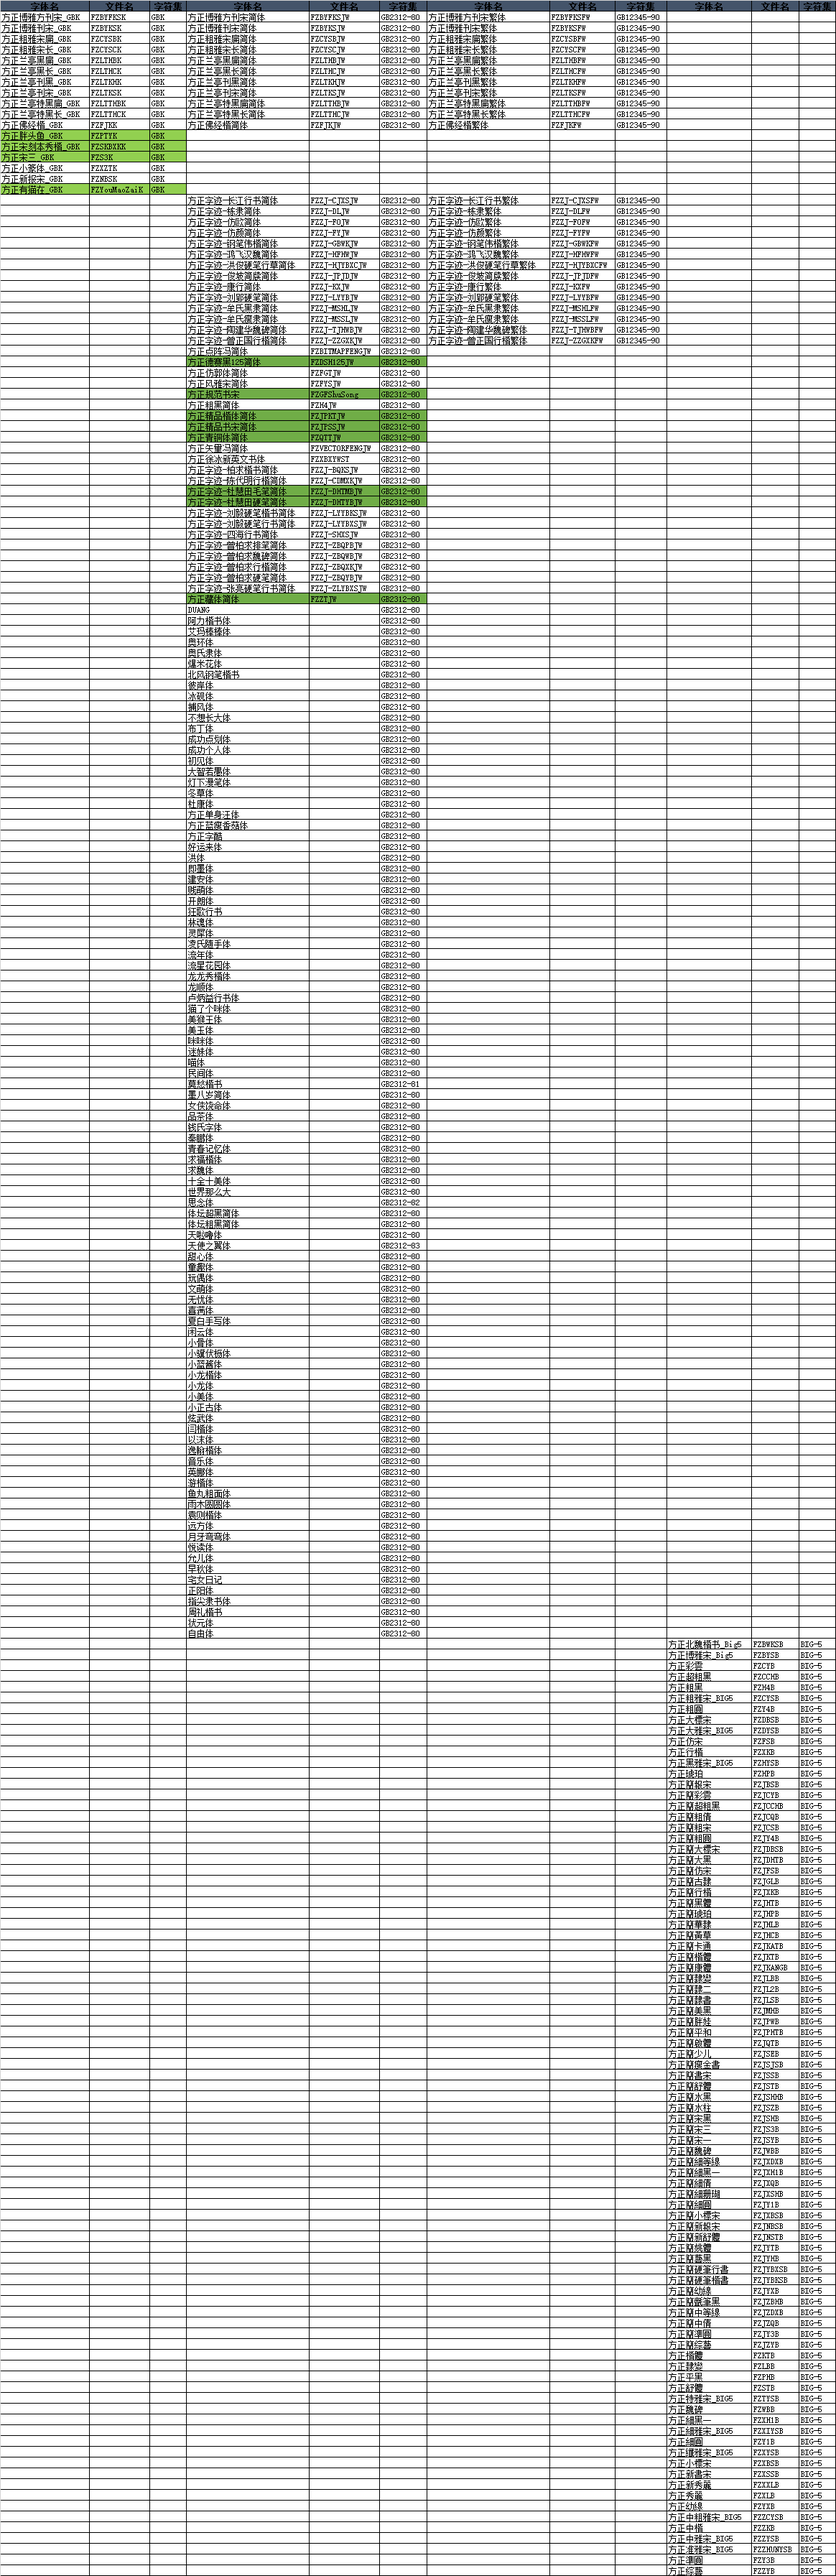
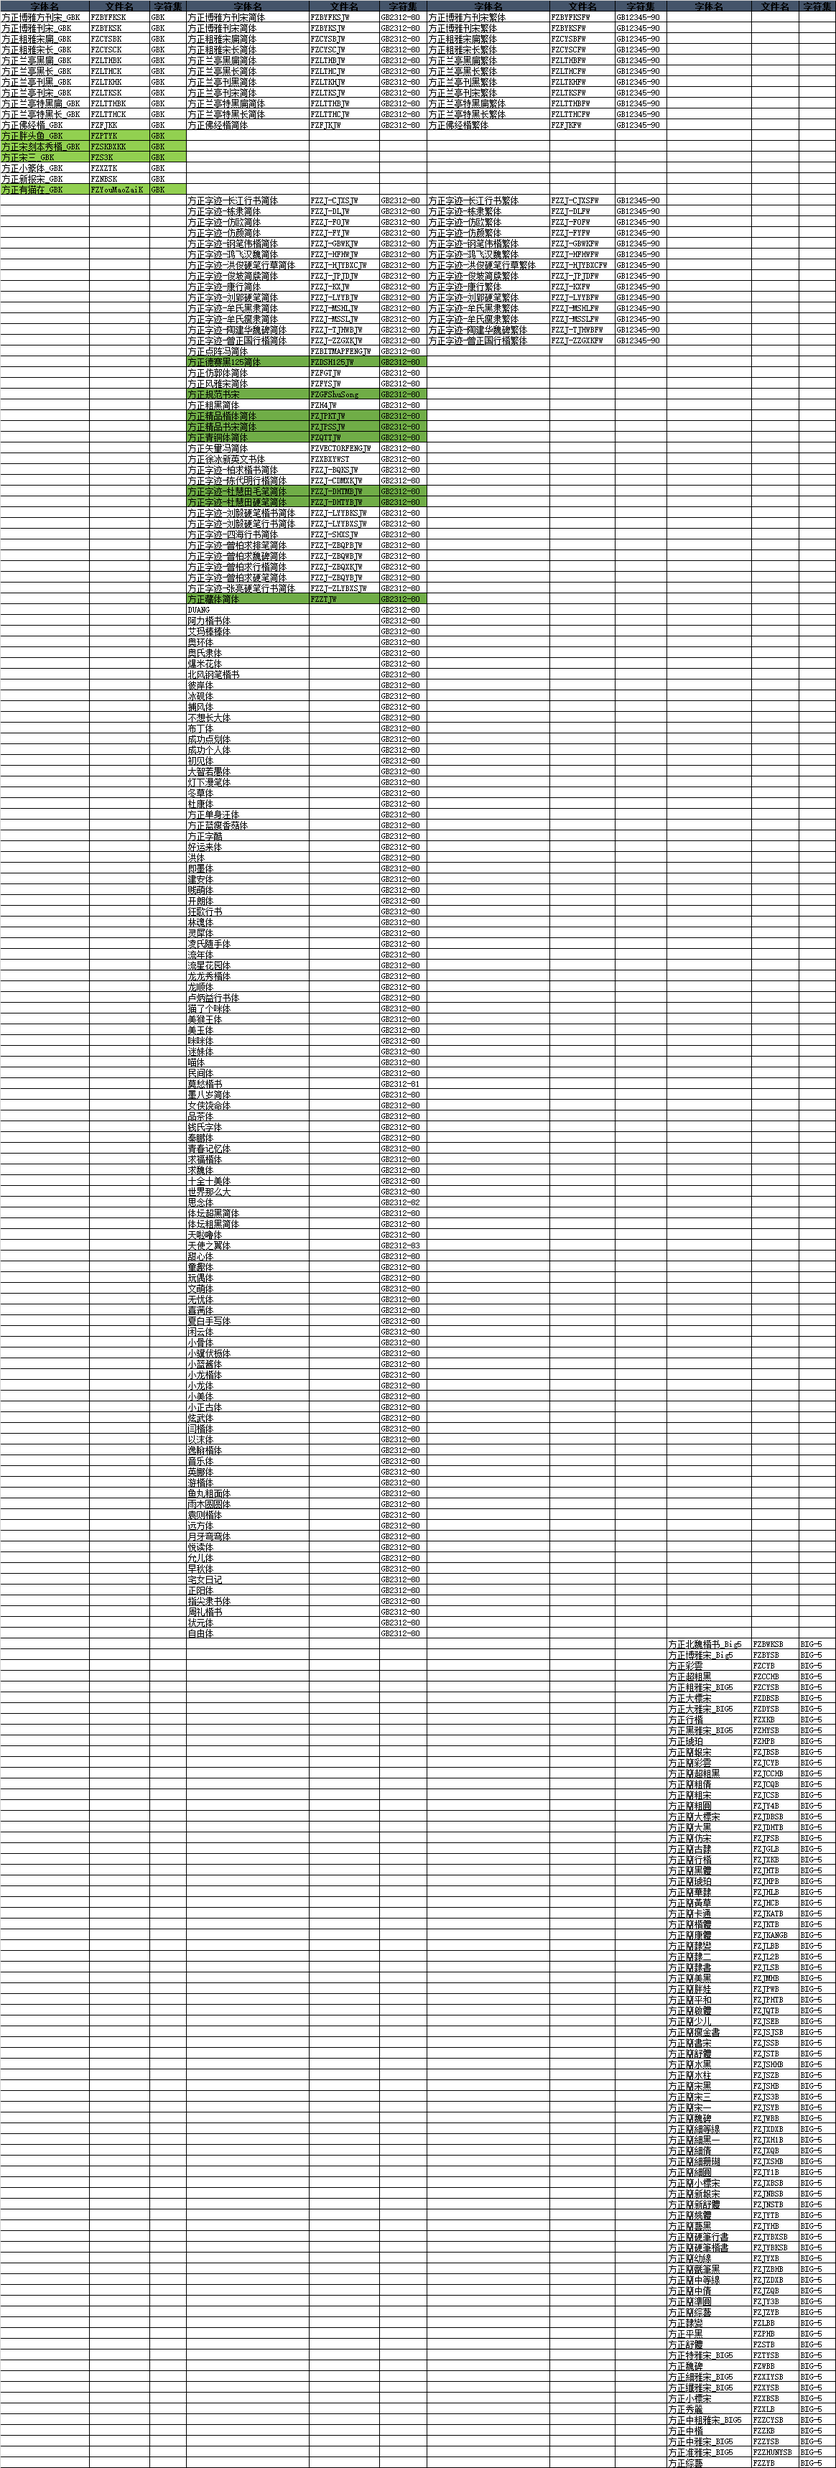
字体上架:方正达利体简体/方正达利体简体Bold/方正达利体简体DemiBold/方正达利体简体ExtraBold/方正达利体简体ExtraLight/方正达利体简体Heavy/方正达利体简体Light/方正达利体简体Medium/方正帝后体简体/方正帝后体简体Bold/方正帝后体简体DemiBold/方正帝后体简体ExtraBold/方正帝后体简体ExtraLight/方正帝后体简体Heavy/方正帝后体简体Light/方正帝后体简体Medium/方正非凡体简体/方正非凡体简体Bold/方正非凡体简体DemiBold/方正非凡体简体ExtraBold/方正非凡体简体Light/方正非凡体简体

Changed region(s): [[0.0, 0.0, 1.0, 1.0]]

diff --git a/README.md b/README.md
@@ -12,11 +12,24 @@
 
 方正字体样张:[http://shop.foundertype.com/index.php/Index/downSample.html](http://shop.foundertype.com/index.php/Index/downSample.html)
 
-目前官方商城在售字体568种：
+目前官方商城在售字体616种：
+
+| 字符集     | 字体数     |
+|------------|------------|
+| GB2312-80  | 281+38      |
+| GB12345-90 | 163        |
+| GBK        | 112        |
+| BIG-5      | 21         |
+|GB18030-2000| 1          |
+|GB18030-2005| 0          |
 
 | 字体名                      | 文件名             | 字符集     |
 |-----------------------------|--------------------|------------|
+| 方正粗黑                    | FZH4B              | BIG-5      |
+| 方正粗圓                    | FZY4B              | BIG-5      |
+| 方正仿宋                    | FZFSB              | BIG-5      |
 | 方正黑體                    | FZHTB              | BIG-5      |
+| 方正楷體                    | FZKTB              | BIG-5      |
 | 方正蘭亭超細黑_BIG5         | FZLTCXHB           | BIG-5      |
 | 方正蘭亭粗黑_BIG5           | FZLTCHB            | BIG-5      |
 | 方正蘭亭大黑_BIG5           | FZLTDHB            | BIG-5      |
@@ -27,6 +40,12 @@
 | 方正蘭亭中粗黑_BIG5         | FZLTZCHB           | BIG-5      |
 | 方正蘭亭中黑_BIG5           | FZLTZHB            | BIG-5      |
 | 方正蘭亭準黑_BIG5           | FZLTZHUNHB         | BIG-5      |
+| 方正細黑一                  | FZXH1B             | BIG-5      |
+| 方正細圓                    | FZY1B              | BIG-5      |
+| 方正新書宋                  | FZXSSB             | BIG-5      |
+| 方正新秀麗                  | FZXXLB             | BIG-5      |
+| 方正幼線                    | FZYXB              | BIG-5      |
+| 方正準圓                    | FZY3B              | BIG-5      |
 | 方正榜书行繁体              | FZBangSXFW         | GB12345-90 |
 | 方正榜书楷繁体              | FZBangSKFW         | GB12345-90 |
 | 方正报宋繁体                | FZXLFW             | GB12345-90 |
@@ -211,14 +230,36 @@
 | 方正粗雅宋简体              | FZCYSJW            | GB2312-80  |
 | 方正粗圆简体                | FZY4JW             | GB2312-80  |
 | 方正粗圆宋简体              | FZCuYSJ            | GB2312-80  |
+| 方正达利体简体              | FZDaLTJ            | GB2312-80  |
+| 方正达利体简体 Bold         | FZDaLTJ_Cu         | GB2312-80  |
+| 方正达利体简体 DemiBold     | FZDaLTJ_Zhong      | GB2312-80  |
+| 方正达利体简体 ExtraBold    | FZDaLTJ_Da         | GB2312-80  |
+| 方正达利体简体 ExtraLight   | FZDaLTJ_Xian       | GB2312-80  |
+| 方正达利体简体 Heavy        | FZDaLTJ_Te         | GB2312-80  |
+| 方正达利体简体 Light        | FZDaLTJ_Xi         | GB2312-80  |
+| 方正达利体简体 Medium       | FZDaLTJ_Zhun       | GB2312-80  |
 | 方正大标宋简体              | FZDBSJW            | GB2312-80  |
 | 方正大草简体                | FZDCJW             | GB2312-80  |
 | 方正大黑简体                | FZDHTJW            | GB2312-80  |
 | 方正大魏体简体              | FZDWTJW            | GB2312-80  |
 | 方正大雅宋简体              | FZDYSJW            | GB2312-80  |
 | 方正德赛黑515简体           | FZDSH515JW         | GB2312-80  |
+| 方正帝后体简体              | FZDiHTJ            | GB2312-80  |
+| 方正帝后体简体 Bold         | FZDiHTJ_Cu         | GB2312-80  |
+| 方正帝后体简体 DemiBold     | FZDiHTJ_Zhong      | GB2312-80  |
+| 方正帝后体简体 ExtraBold    | FZDiHTJ_Da         | GB2312-80  |
+| 方正帝后体简体 ExtraLight   | FZDiHTJ_Xian       | GB2312-80  |
+| 方正帝后体简体 Heavy        | FZDiHTJ_Te         | GB2312-80  |
+| 方正帝后体简体 Light        | FZDiHTJ_Xi         | GB2312-80  |
+| 方正帝后体简体 Medium       | FZDiHTJ_Zhun       | GB2312-80  |
 | 方正方魅简体                | FZFMJW             | GB2312-80  |
 | 方正仿宋简体                | FZFSJW             | GB2312-80  |
+| 方正非凡体简体              | FZFeiFTJ           | GB2312-80  |
+| 方正非凡体简体 Bold         | FZFeiFTJ_Cu        | GB2312-80  |
+| 方正非凡体简体 DemiBold     | FZFeiFTJ_Zhong     | GB2312-80  |
+| 方正非凡体简体 ExtraBold    | FZFeiFTJ_Da        | GB2312-80  |
+| 方正非凡体简体 Light        | FZFeiFTJ_Xi        | GB2312-80  |
+| 方正非凡体简体 Medium       | FZFeiFTJ_Zhun      | GB2312-80  |
 | 方正粉丝天下简体            | FZFenSTXJW         | GB2312-80  |
 | 方正工业黑简体              | FZGongYHJW         | GB2312-80  |
 | 方正古仿简体                | FZGuFangJW         | GB2312-80  |
@@ -298,6 +339,14 @@
 | 方正平和简体                | FZPHTJW            | GB2312-80  |
 | 方正启笛简体                | FZQDJW             | GB2312-80  |
 | 方正启体简体                | FZQTJW             | GB2312-80  |
+| 方正清纯体简体              | FZQingCTJ          | GB2312-80  |
+| 方正清纯体简体 Bold         | FZQingCTJ_Cu       | GB2312-80  |
+| 方正清纯体简体 DemiBold     | FZQingCTJ_Zhong    | GB2312-80  |
+| 方正清纯体简体 ExtraBold    | FZQingCTJ_Da       | GB2312-80  |
+| 方正清纯体简体 ExtraLight   | FZQingCTJ_Xian     | GB2312-80  |
+| 方正清纯体简体 Heavy        | FZQingCTJ_Te       | GB2312-80  |
+| 方正清纯体简体 Light        | FZQingCTJ_Xi       | GB2312-80  |
+| 方正清纯体简体 Medium       | FZQingCTJ_Zhun     | GB2312-80  |
 | 方正清刻本悦宋简体          | FZQKBYSJW          | GB2312-80  |
 | 方正趣宋简体                | FZQuSJW            | GB2312-80  |
 | 方正锐水云简体_大           | FZRuiSYJW_Da       | GB2312-80  |
@@ -384,6 +433,14 @@
 | 方正颜宋简体_准             | FZYanSJW_Zhun      | GB2312-80  |
 | 方正姚体简体                | FZYTJW             | GB2312-80  |
 | 方正艺黑简体                | FZYHJW             | GB2312-80  |
+| 方正盈利体简体              | FZYingLTJ          | GB2312-80  |
+| 方正盈利体简体 Bold         | FZYingLTJ_Cu       | GB2312-80  |
+| 方正盈利体简体 DemiBold     | FZYingLTJ_Zhong    | GB2312-80  |
+| 方正盈利体简体 ExtraBold    | FZYingLTJ_Da       | GB2312-80  |
+| 方正盈利体简体 ExtraLight   | FZYingLTJ_Xian     | GB2312-80  |
+| 方正盈利体简体 Heavy        | FZYingLTJ_Te       | GB2312-80  |
+| 方正盈利体简体 Light        | FZYingLTJ_Xi       | GB2312-80  |
+| 方正盈利体简体 Medium       | FZYingLTJ_Zhun     | GB2312-80  |
 | 方正萤雪简体                | FZYingXueJW        | GB2312-80  |
 | 方正硬笔行书简体            | FZYBXSJW           | GB2312-80  |
 | 方正硬笔楷书简体            | FZYBKSJW           | GB2312-80  |
